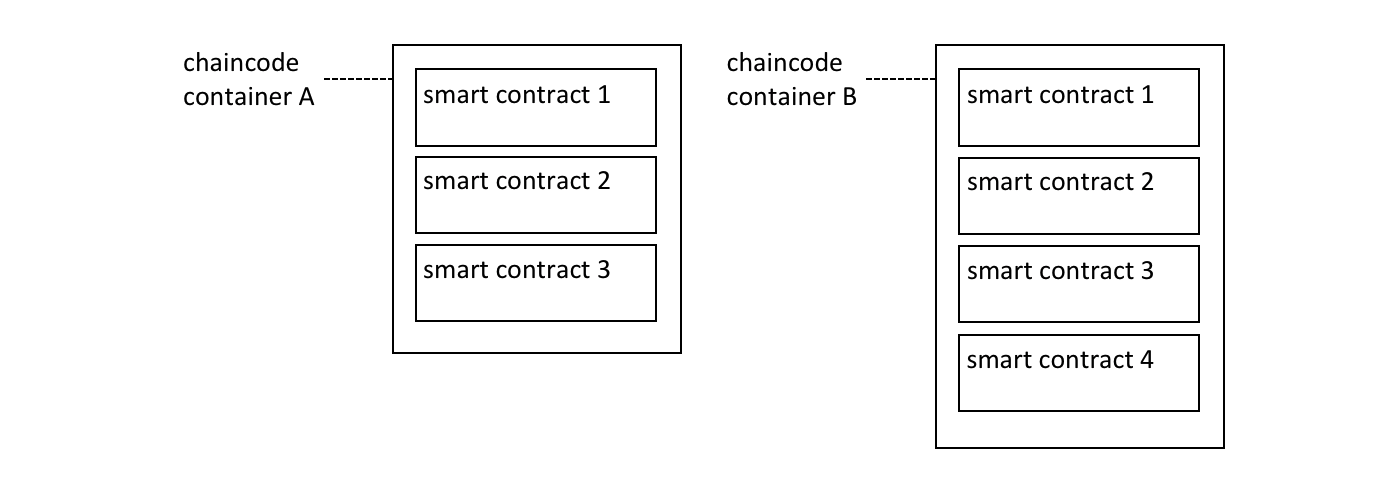
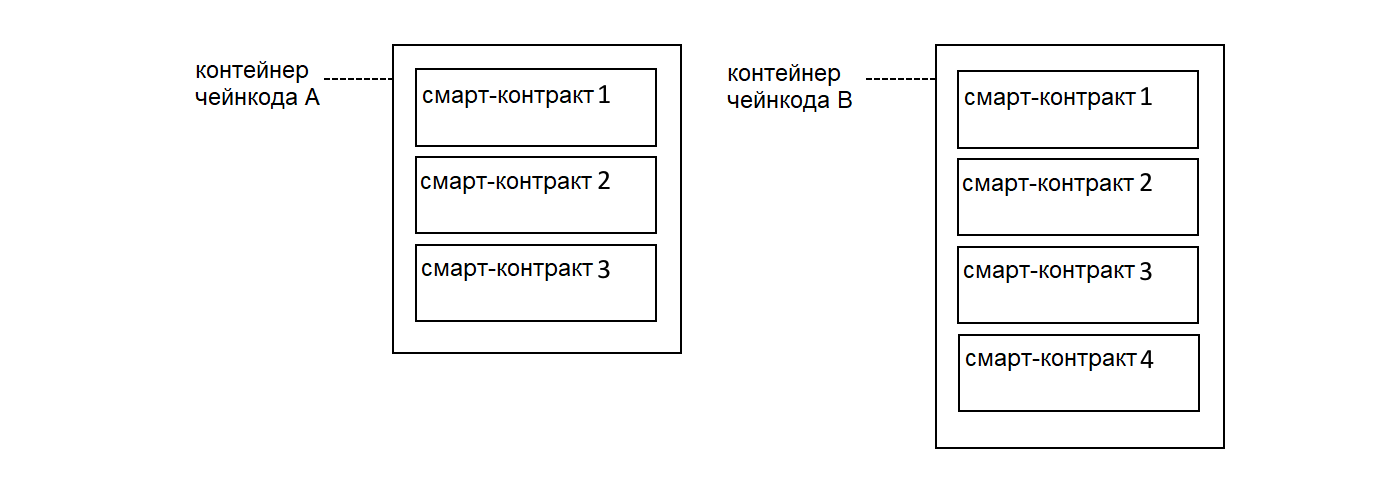
RU contract name

diff --git a/docs/locale/ru_RU/source/developapps/contractname.md b/docs/locale/ru_RU/source/developapps/contractname.md
@@ -1,60 +1,53 @@
-# Contract names
+# Имена контрактов
 
-**Audience**: Architects, application and smart contract developers,
-administrators
+**Аудитория**: Архитекторы, разработчики смарт-контрактов и приложений, администраторы
 
-A chaincode is a generic container for deploying code to a Hyperledger Fabric
-blockchain network. One or more related smart contracts are defined within a
-chaincode. Every smart contract has a name that uniquely identifies it within a
-chaincode. Applications access a particular smart contract within a chaincode
-using its contract name.
+Чейнкод - это общий контейнер для развертывания кода в блокчейн-сети Hyperledger Fabric.
+В рамках чейнкода определяется один или несколько связанных смарт-контрактов. У каждого смарт-контракта
+есть уникальное в рамках чейнкода имя. Приложения обращаются к определенному смарт-контракту в чейнкоде
+по его имени.
 
-In this topic, we're going to cover:
-* [How a chaincode contains multiple smart contracts](#chaincode)
-* [How to assign a smart contract name](#name)
-* [How to use a smart contract from an application](#application)
-* [The default smart contract](#default-contract)
+В этой главе мы опишем:
+* [Как в чейнкоде может содержаться множество смарт-контрактов](#chaincode)
+* [Как присвоить имя смарт-контракту](#name)
+* [Как обратиться к смарт-контракту из приложения](#application)
+* [Смарт-контракт по умолчанию](#default-contract)
 
-## Chaincode
+## Чейнкод
 
-In the [Developing Applications](./developing_applications.html) topic, we can
-see how the Fabric SDKs provide high level programming abstractions which help
-application and smart contract developers to focus on their business problem,
-rather than the low level details of how to interact with a Fabric network.
+В главе [Разработка приложений](./developing_applications.html) описано, как Fabric SDK 
+предоставляет высокоуровневые абстракции, которые помогают разработчикам
+приложений и смарт-контрактов фокусироваться на бизнес-логике, не вникая в подробности
+низкоуровневого взаимодействия с сетью Fabric.
 
-Smart contracts are one example of a high level programming abstraction, and it
-is possible to define smart contracts within in a chaincode container. When a
-chaincode is installed on your peer and deployed to a channel, all the smart
-contracts within it are made available to your applications.
+Смарт-контракты являются примером высокоуровневой абстракции программирования, и их можно
+описать в контейнере чейнкода. Как только чейнкод установлен на вашем одноранговом узле и
+развернут в канале, все его смарт-контракты становятся доступными для приложений.
 
-![contract.chaincode](./develop.diagram.20.png) *Multiple smart contracts can be
-defined within a chaincode. Each is uniquely identified by their name within a
-chaincode.*
+![contract.chaincode](./develop.diagram.20.png) *В чейнкоде может быть определено множество смарт-контрактов.
+У каждого из них есть уникальное внутри чейнкода имя.*
 
-In the diagram [above](#chaincode), chaincode A has three smart contracts
-defined within it, whereas chaincode B has four smart contracts. See how the
-chaincode name is used to fully qualify a particular smart contract.
+На диаграмме [выше](#chaincode), чейнкод A содержит три смарт-контракта, а чейнкод B –
+четыре смарт-контракта. Обратите внимание, что для полной идентификации смарт-контракта используется имя чейнкода.
 
-The ledger structure is defined by a set of deployed smart contracts. That's
-because the ledger contains facts about the business objects of interest to the
-network (such as commercial paper within PaperNet), and these business objects
-are moved through their lifecycle (e.g. issue, buy, redeem) by the transaction
-functions defined within a smart contract.
+Структура реестра определяется набором развернутых смарт-контрактов. Причиной тому является
+то, что реестр содержит факты о бизнес-объектах, представляющих интерес для сети (например, коммерческие
+ценные бумаги в сети PaperNet), а эти бизнес-объекты в свою очередь проживают свой жизненный цикл
+(в стадиях выпуска, покупки и погашения) посредством транзакций, функционально определенных внутри смарт-контрактов.
 
-In most cases, a chaincode will only have one smart contract defined within it.
-However, it can make sense to keep related smart contracts together in a single
-chaincode. For example, commercial papers denominated in different currencies
-might have contracts `EuroPaperContract`, `DollarPaperContract`,
-`YenPaperContract` which might need to be kept synchronized with each other in
-the channel to which they are deployed.
+В большинстве случаев, в чейнкоде определен лишь один смарт-контракт.
+Тем не менее, может иметь смысл держать в одном чейнкоде все взаимосвязанные
+смарт-контракты. К примеру, коммерческие ценные бумаги, номинированные в различных валютах, могут
+определяться смарт-контрактами `EuroPaperContract`, `DollarPaperContract` и
+`YenPaperContract`, и для этих контрактов может требоваться взаимная синхронизация в том канале,
+в котором они развернуты.
 
-## Name
+## Имя
 
-Each smart contract within a chaincode is uniquely identified by its contract
-name. A smart contract can explicitly assign this name when the class is
-constructed, or let the `Contract` class implicitly assign a default name.
+Каждый смарт-контракт внутри чейнкода уникальным образом идентифицируется своим именем. Смарт-контракт может явно назначить
+это имя при создании класса или позволить классу `Contract` неявно назначить имя по умолчанию.
 
-Examine the `papercontract.js` chaincode
+Изучите чейнкод `papercontract.js`
 [file](https://github.com/hyperledger/fabric-samples/blob/{BRANCH}/commercial-paper/organization/magnetocorp/contract/lib/papercontract.js#L31):
 
 ```javascript
@@ -66,36 +59,33 @@ class CommercialPaperContract extends Contract {
     }
 ```
 
-See how the `CommercialPaperContract` constructor specifies the contract name as
-`org.papernet.commercialpaper`. The result is that within the `papercontract`
-chaincode, this smart contract is now associated with the contract name
-`org.papernet.commercialpaper`.
+Здесь конструктор `CommercialPaperContract` задает имя контракта как
+`org.papernet.commercialpaper`. В результате внутри чейнкода `papercontract`
+этот смарт-контракт связан с именем контракта `org.papernet.commercialpaper`.
 
-If an explicit contract name is not specified, then a default name is assigned
--- the name of the class.  In our example, the default contract name would be
-`CommercialPaperContract`.
+Если имя контракта не задано явным образом, тогда ему присваивается имя по умолчанию
+-- имя класса. В нашем примере имя контракта по умолчанию будет -- `CommercialPaperContract`.
 
-Choose your names carefully. It's not just that each smart contract must have a
-unique name; a well-chosen name is illuminating. Specifically, using an explicit
-DNS-style naming convention is recommended to help organize clear and meaningful
-names; `org.papernet.commercialpaper` conveys that the PaperNet network has
-defined a standard commercial paper smart contract.
+Выбирайте имена с осторожностью. Дело даже не в том, что у каждого
+смарт-контракта имя должно быть уникальным, но еще и в том, что оно должно быть
+"говорящим" для того, кто его читает. В частности, рекомендуется использовать явный порядок
+присвоения имен по образцу DNS -- для того, чтобы названия были прозрачными и со смыслом.
+Так, например, имя `org.papernet.commercialpaper` означает, что этот контракт задан
+для стандартных коммерческих ценных бумаг на сети PaperNet.
 
-Contract names are also helpful to disambiguate different smart contract
-transaction functions with the same name in a given chaincode. This happens when
-smart contracts are closely related; their transaction names will tend to be the
-same. We can see that a transaction is uniquely defined within a channel by the
-combination of its chaincode and smart contract name.
+Имена контрактов также помогают различать одинаково названные функции транзакций разных смарт-контрактов
+в одном чейнкоде. Такое бывает, когда смарт-контракты тесно связаны; в таком случае
+имена их транзакций также бывают одинаковыми. Мы видим, что транзакция однозначным определяется
+в канале комбинацией имени ее своего чейнкода и имени смарт-контракта.
 
-Contract names must be unique within a chaincode file. Some code editors will
-detect multiple definitions of the same class name before deployment. Regardless
-the chaincode will return an error if multiple classes with the same contract
-name are explicitly or implicitly specified.
+Имена контрактов должны быть уникальными внутри одного файла чейнкода. Некоторые редакторы
+кода могут распознавать множественные определения одного и того же класса перед развертыванием.
+Вне зависимости от этого, чейнкод будет выдавать ошибку, если несколько классов явным или неявным образом
+будут заданы для одного и того же смарт-контракта.
 
-## Application
+## Приложение
 
-Once a chaincode has been installed on a peer and deployed to a channel, the
-smart contracts in it are accessible to an application:
+Как только чейнкод будет установлен на узле и развернут в канале, его смарт-контракты станут доступны приложению:
 
 ```javascript
 const network = await gateway.getNetwork(`papernet`);
@@ -105,25 +95,24 @@ const contract = await network.getContract('papercontract', 'org.papernet.commer
 const issueResponse = await contract.submitTransaction('issue', 'MagnetoCorp', '00001', '2020-05-31', '2020-11-30', '5000000');
 ```
 
-See how the application accesses the smart contract with the
-`network.getContract()` method. The `papercontract` chaincode name
-`org.papernet.commercialpaper` returns a `contract` reference which can be
-used to submit transactions to issue commercial paper with the
-`contract.submitTransaction()` API.
+Из приведенного примера видно, как приложение обращается к смарт-контракту через вызов метода
+`network.getContract()`. По имени смарт-контракта `org.papernet.commercialpaper` из чейнкода `papercontract` 
+получается ссылка на объект `contract`, который используется для отправки транзакций по выпуску
+коммерческих ценных бумаг в вызове функции API `contract.submitTransaction()`.
 
-## Default contract
+## Контракт по умолчанию
 
-The first smart contract defined in a chaincode is called the *default*
-smart contract. A default is helpful because a chaincode will usually have one
-smart contract defined within it; a default allows the application to access
-those transactions directly -- without specifying a contract name.
+Первый смарт-контракт, определенный в чейнкоде, называется контрактом *по умолчанию*.
+Контракт по-умолчанию облегчает работу, потому что в чейнкоде обычно определяется один смарт-контракт;
+а обращение по умолчанию позволяет приложению обращаться к транзакциям напрямую, без указания
+названия контракта.
 
-![default.contract](./develop.diagram.21.png) *A default smart contract is the
-first contract defined in a chaincode.*
+![default.contract](./develop.diagram.21.png) *Смарт-контракт по умолчанию - это первый контракт,
+определенный в чейнкоде.*
 
-In this diagram, `CommercialPaperContract` is the default smart contract. Even
-though we have two smart contracts, the default smart contract makes our
-[previous](#application) example easier to write:
+Согласно этой диаграмме, `CommercialPaperContract` - контракт по-умолчанию.
+Даже если бы у нас было два смарт-контракта, смарт-контракт по-умолчанию облегчил бы написание
+нашего [предыдущего](#application) примера:
 
 ```javascript
 const network = await gateway.getNetwork(`papernet`);
@@ -133,22 +122,19 @@ const contract = await network.getContract('papercontract');
 const issueResponse = await contract.submitTransaction('issue', 'MagnetoCorp', '00001', '2020-05-31', '2020-11-30', '5000000');
 ```
 
-This works because the default smart contract in `papercontract` is
-`CommercialPaperContract` and it has an `issue` transaction. Note that the
-`issue` transaction in `BondContract` can only be invoked by explicitly
-addressing it. Likewise, even though the `cancel` transaction is unique, because
-`BondContract` is *not* the default smart contract, it must also be explicitly
-addressed.
+Такой способ работает, потому что смарт-контракт по-умолчанию в `papercontract` - это
+`CommercialPaperContract` и в нем имеется транзакция `issue`. Заметим, что транзакция
+`issue` в `BondContract` может быть вызвана только явным образом. Сходным образом, несмотря
+на то, что транзакция `cancel` уникальна, она может быть вызвана только явным образом, потому что
+принадлежит смарт-контракту `BondContract`, который *не* является смарт-контрактом по-умолчанию.
 
-In most cases, a chaincode will only contain a single smart contract, so careful
-naming of the chaincode can reduce the need for developers to care about
-chaincode as a concept. In the example code [above](#default-contract) it feels
-like `papercontract` is a smart contract.
+В большинстве случаев чейнкод содержит единственный смарт-контракт, так что аккуратный выбор
+имен в чейнкоде снижает заботы разработчиков о самом чейнкоде как о концепции. 
+В случае кода, приведенного [выше](#default-contract) кажется, что `papercontract` и есть смарт-контракт.
 
-In summary, contract names are a straightforward mechanism to identify
-individual smart contracts within a given chaincode. Contract names make it easy
-for applications to find a particular smart contract and use it to access the
-ledger.
+В целом, имена контрактов - это простой механизм идентификации смарт-контрактов внутри
+заданного чейнкода. Имена контрактов позволяют приложениям легко находить конкретный смарт-контракт и
+использовать его для доступа к реестру.
 
 <!--- Licensed under Creative Commons Attribution 4.0 International License
 https://creativecommons.org/licenses/by/4.0/ -->
